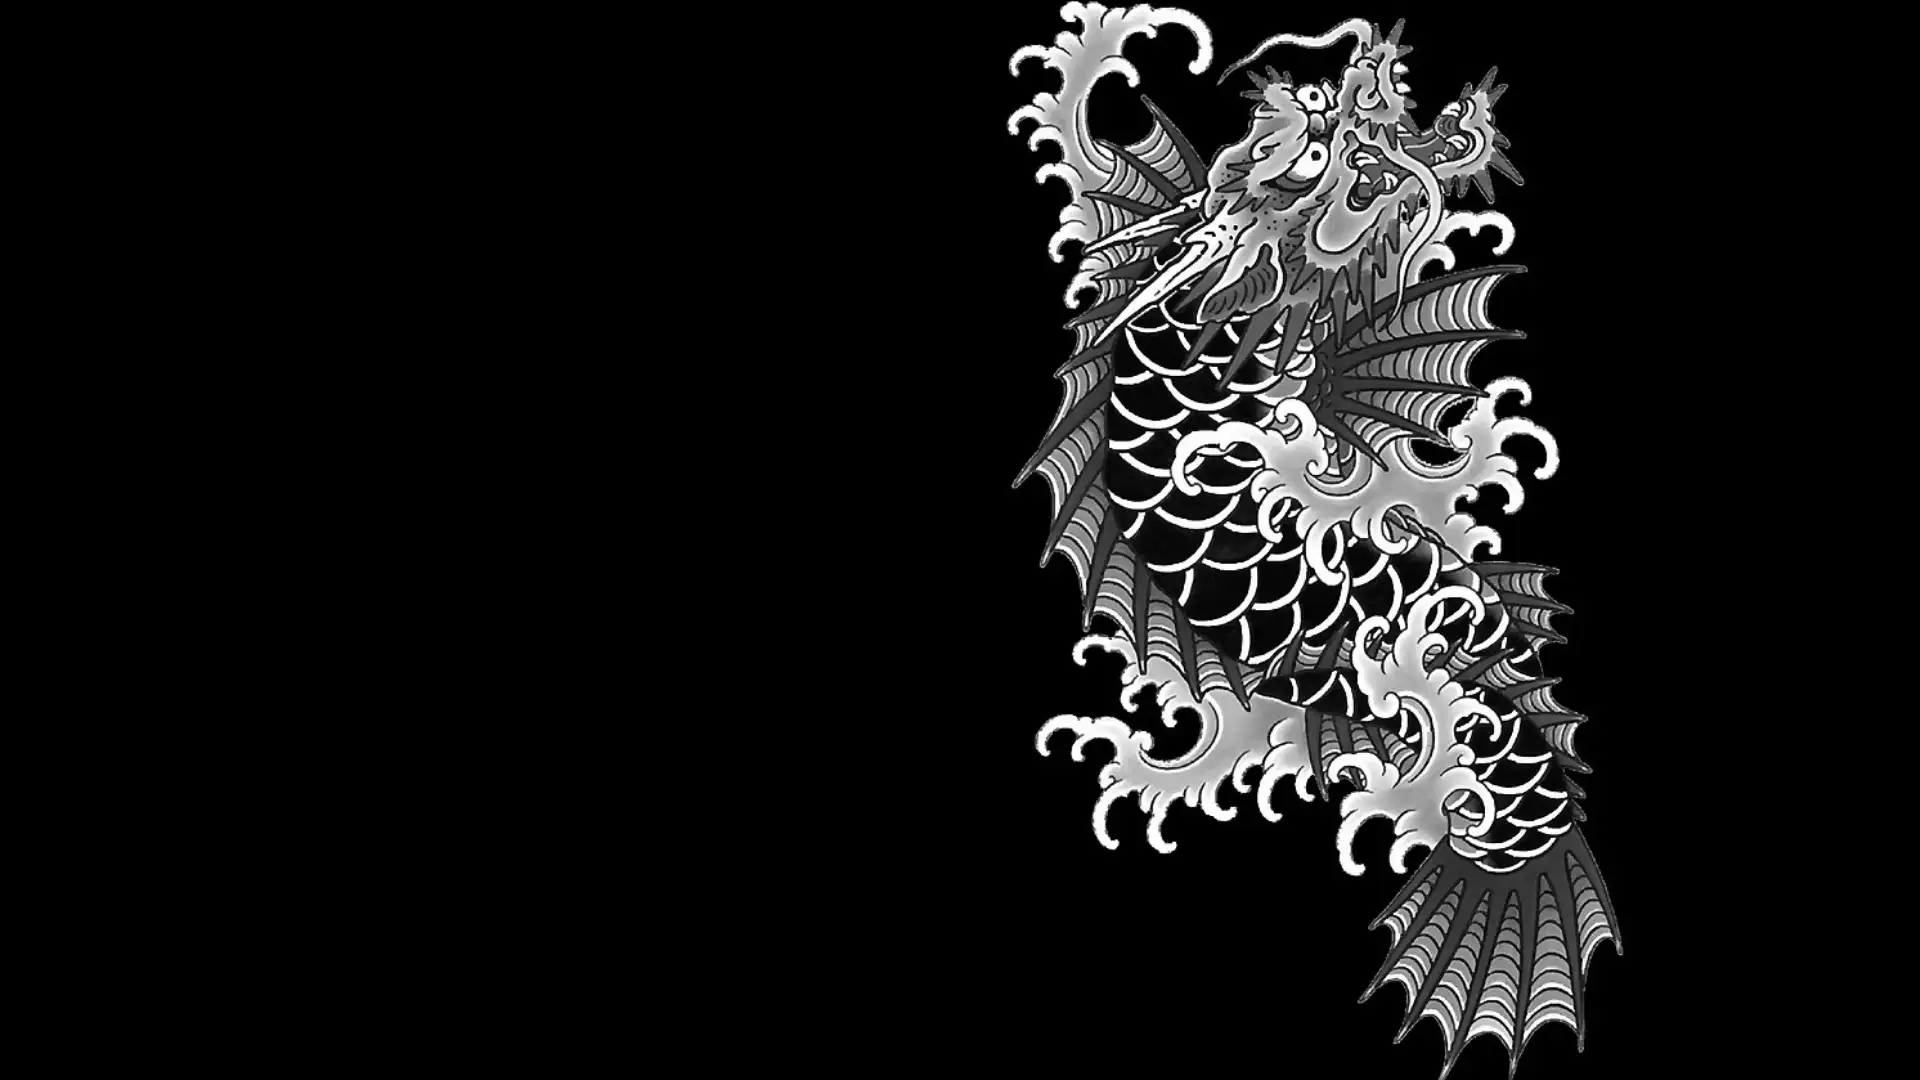
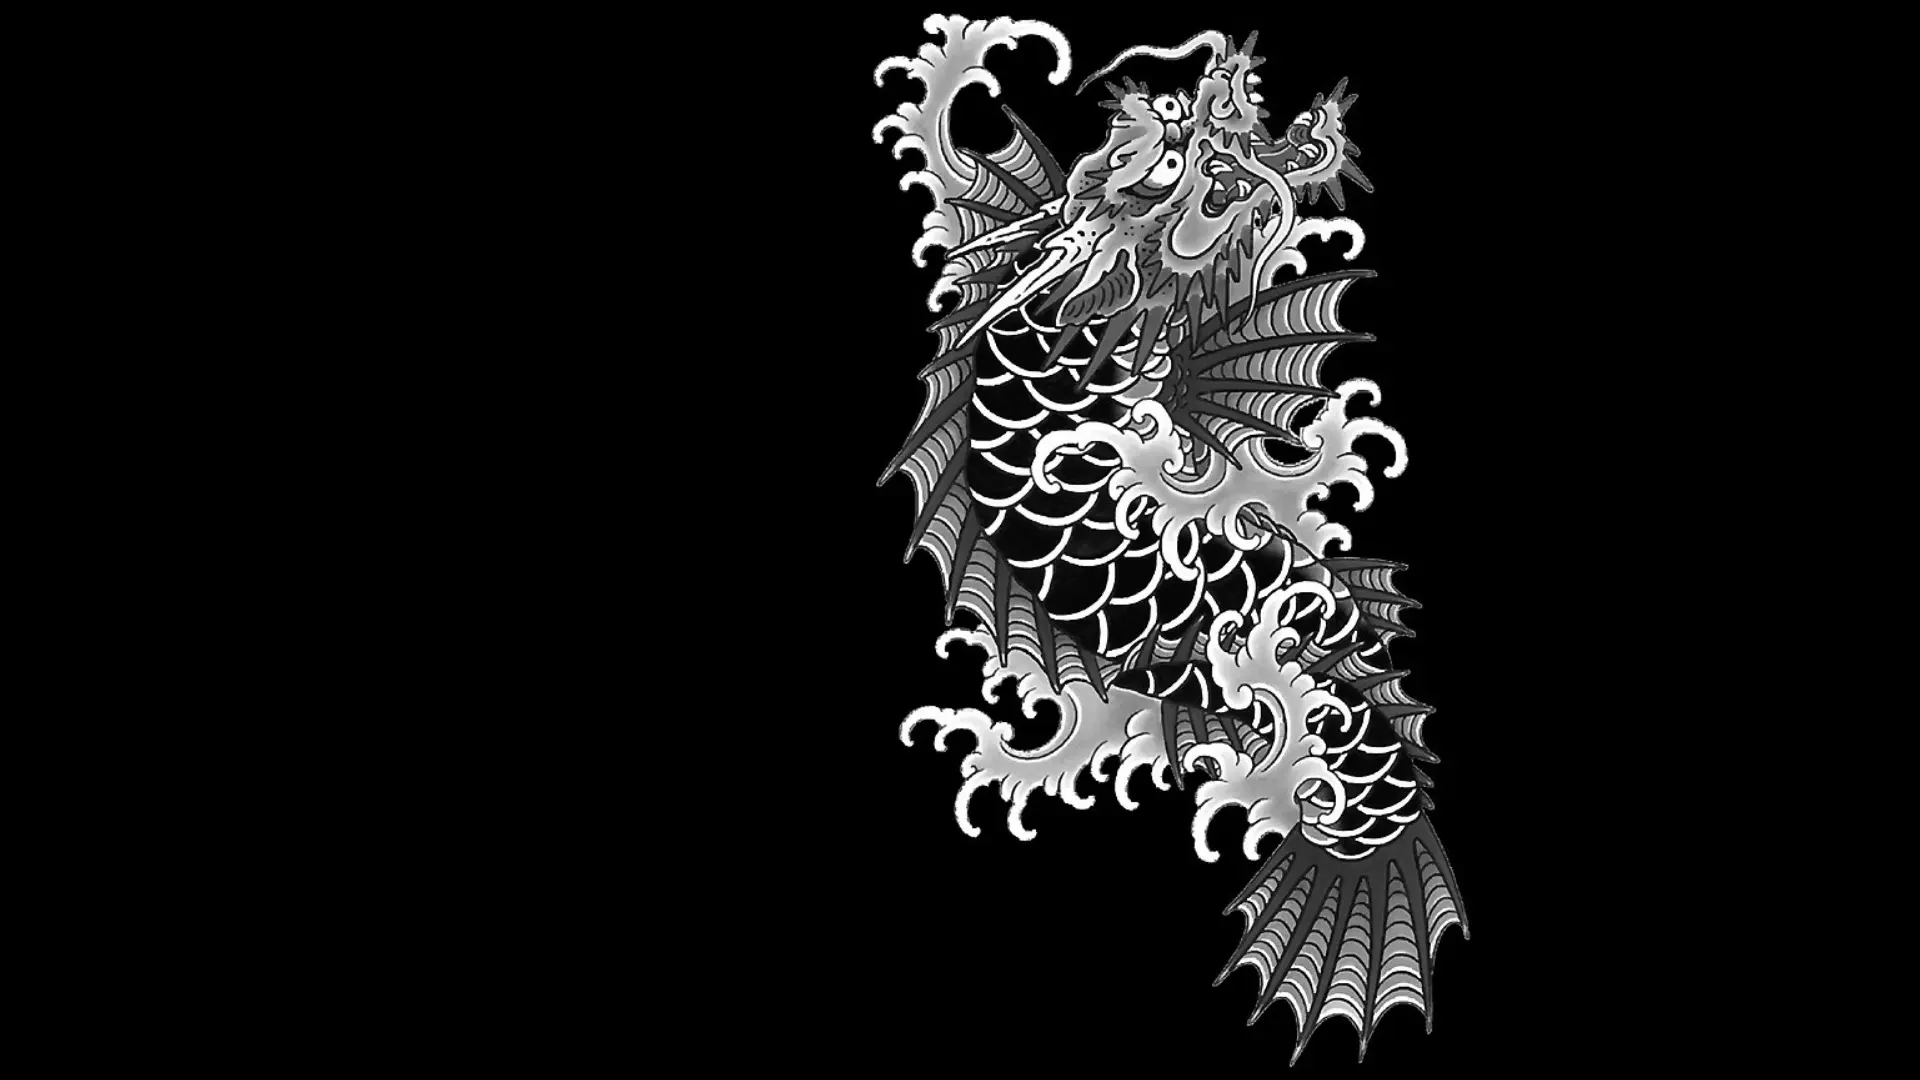
refactor(ui): optimize background loading and update mobile alignment

Changed region(s): [[0.4375, 0.0, 0.8438, 1.0]]

diff --git a/components/app-shell.tsx b/components/app-shell.tsx
@@ -3,7 +3,6 @@
 import Image from "next/image";
 import { usePathname } from "next/navigation";
 import { useState, useEffect, useRef } from "react";
-import { preload } from "react-dom";
 import { motion, AnimatePresence } from "motion/react";
 import { Sidebar as HomeMenu } from "@/components/sidebar";
 
@@ -38,20 +37,13 @@ export function AppShell({ children }: { children: React.ReactNode }) {
     "/projects": "/images/backgrounds/BG-Kiryu.webp",
     "/skills": "/images/backgrounds/BG-Majima.webp",
     "/experience": "/images/backgrounds/BG-Saejima.webp",
-    "/socials": "/images/backgrounds/BG-Ichiban.webp",
+    "/socials": "/images/backgrounds/BG-Nishiki.webp",
   };
-
-  // Aggressively Preload Home Page Backgrounds
-  if (isHome) {
-    Object.values(homeHoverBgMap).forEach((bg) => {
-      preload(bg, { as: "image" });
-    });
-  }
 
   // Non-Home Page Backgrounds
   const pageBgMap: Record<string, string> = {
     "/projects": "/images/backgrounds/BG-Persona.webp",
-    "/skills": "/images/backgrounds/BG-Sekiro.webp",
+    "/skills": "/images/backgrounds/Bekiro.webp",
     "/experience": "/images/backgrounds/BG-Saejima.webp",
     "/socials": "/images/backgrounds/BG-Ichiban.webp",
   };
@@ -79,8 +71,9 @@ export function AppShell({ children }: { children: React.ReactNode }) {
     }
   }
 
-  // Get Target Opacity for Active Background
+  // Get Target Opacity and Position for Active Background
   const activeOpacity = bgOpacityMap[activeBg] || "opacity-10 md:opacity-10";
+  const activeMobilePosition = isHome ? "object-[90%_center]" : "object-[75%_center]";
 
   return (
     <div className="relative flex h-dvh w-full overflow-hidden bg-background">
@@ -102,7 +95,7 @@ export function AppShell({ children }: { children: React.ReactNode }) {
               priority={true}
               sizes="100vw"
               quality={90}
-              className={`object-cover object-[90%_center] md:object-center ${activeOpacity}`}
+              className={`object-cover ${activeMobilePosition} md:object-center ${activeOpacity}`}
             />
           </motion.div>
         </AnimatePresence>
